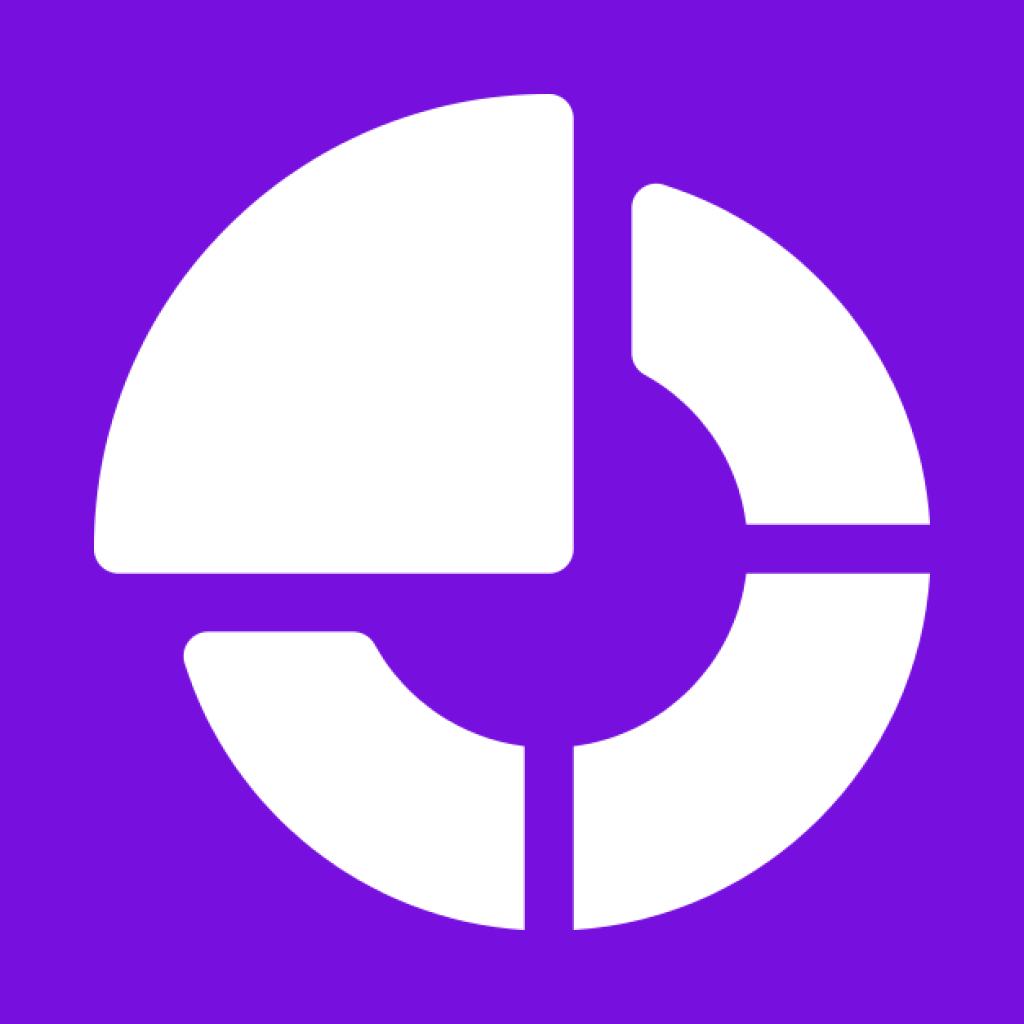
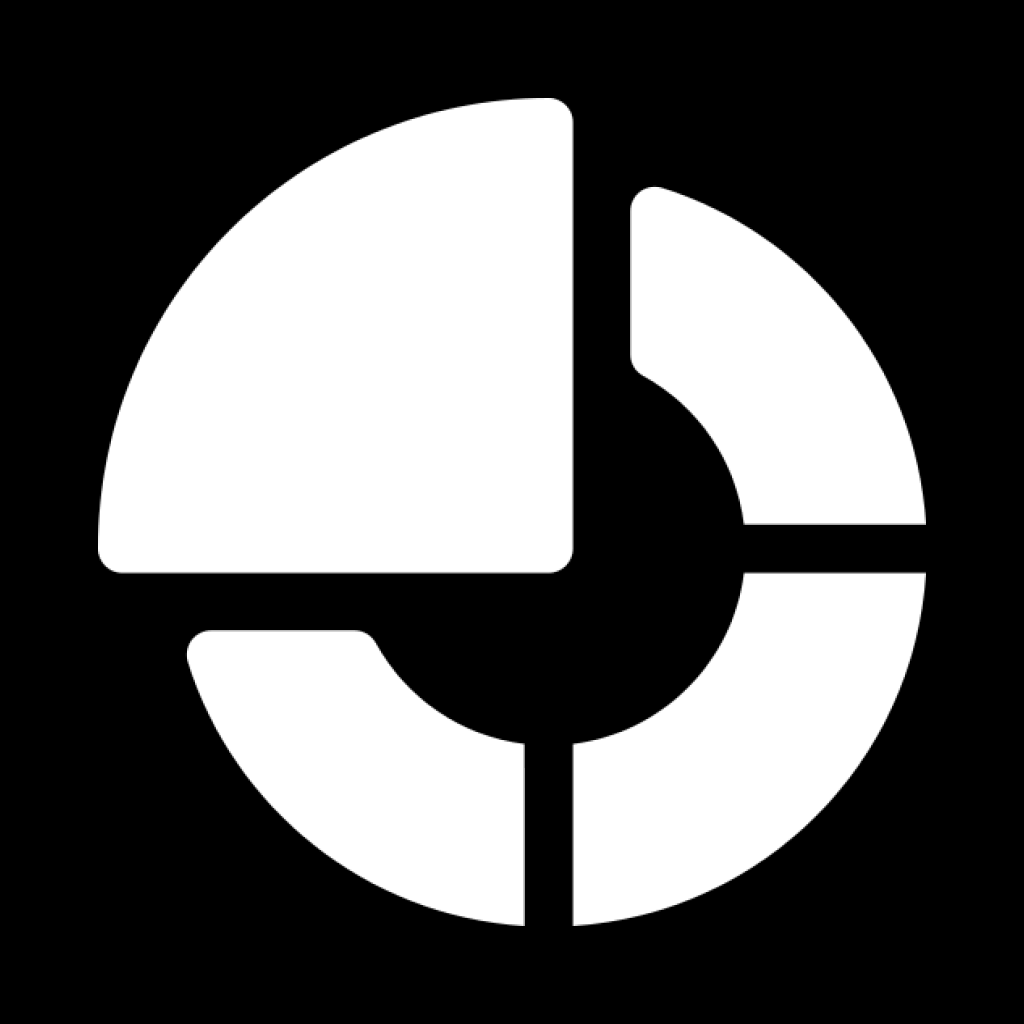
Refactor: Change colors

diff --git a/src/routers/app.tab.routes.tsx b/src/routers/app.tab.routes.tsx
@@ -16,12 +16,13 @@ const Tab = () => {
         tabBarStyle: {
           height: Platform.OS === "ios" ? 100 : 75,
           paddingVertical: 10,
+          backgroundColor: "#000000",
         },
         tabBarItemStyle: { height: 55 },
         tabBarLabel: ({ focused, children }) => (
           <Text
             style={{
-              color: focused ? "#770FDF" : "#000",
+              color: focused ? "#FFFFFF" : "#cccccc",
               fontSize: 18,
               fontWeight: "600",
             }}
@@ -39,7 +40,7 @@ const Tab = () => {
             <Entypo
               name="home"
               size={24}
-              color={focused ? "#770FDF" : "#000"}
+              color={focused ? "#FFFFFF" : "#cccccc"}
             />
           ),
         }}
@@ -52,7 +53,7 @@ const Tab = () => {
             <Fontisto
               name="arrow-swap"
               size={24}
-              color={focused ? "#770FDF" : "#000"}
+              color={focused ? "#FFFFFF" : "#cccccc"}
             />
           ),
         }}
@@ -65,7 +66,7 @@ const Tab = () => {
             <Foundation
               name="graph-pie"
               size={30}
-              color={focused ? "#770FDF" : "#000"}
+              color={focused ? "#FFFFFF" : "#cccccc"}
             />
           ),
         }}

diff --git a/src/pages/home/style.ts b/src/pages/home/style.ts
@@ -78,7 +78,7 @@ const style = StyleSheet.create({
 
   contentRewards: {
     padding: 10,
-    backgroundColor: "#F7EFFF",
+    backgroundColor: "#000000",
     alignItems: "center",
     flexDirection: "row",
     gap: 9,
@@ -86,7 +86,7 @@ const style = StyleSheet.create({
   },
 
   labelRewards: {
-    color: "#770FDF",
+    color: "#FFFFFF",
     fontSize: 11,
     fontWeight: "600",
     fontStyle: "normal",
@@ -182,7 +182,7 @@ const style = StyleSheet.create({
     width: "100%",
     flexDirection: "row",
     justifyContent: "space-between",
-    backgroundColor: "#770FDF",
+    backgroundColor: "#000000",
     padding: 20,
     borderRadius: 10,
   },

diff --git a/src/pages/home/index.tsx b/src/pages/home/index.tsx
@@ -107,7 +107,7 @@ const Home = () => {
               </View>
 
               <TouchableOpacity style={style.contentRewards}>
-                <FontAwesome5 name="coins" size={18} color="#770FDF" />
+                <FontAwesome5 name="coins" size={18} color="#FFFFFF" />
                 <Text style={style.labelRewards}>Earn Rewards</Text>
               </TouchableOpacity>
             </View>

diff --git a/src/components/button/style.ts b/src/components/button/style.ts
@@ -6,7 +6,7 @@ const style = StyleSheet.create({
     minHeight: 69,
     justifyContent: "center",
     alignItems: "center",
-    backgroundColor: "#770FDF",
+    backgroundColor: "#000000",
     borderRadius: 6,
     marginTop: 38,
   },

diff --git a/src/components/checkBox/style.ts b/src/components/checkBox/style.ts
@@ -9,7 +9,7 @@ const style = StyleSheet.create({
   },
 
   selected: {
-    backgroundColor: "#770FDF",
+    backgroundColor: "#0000ff",
   },
 
   unSelected: {
